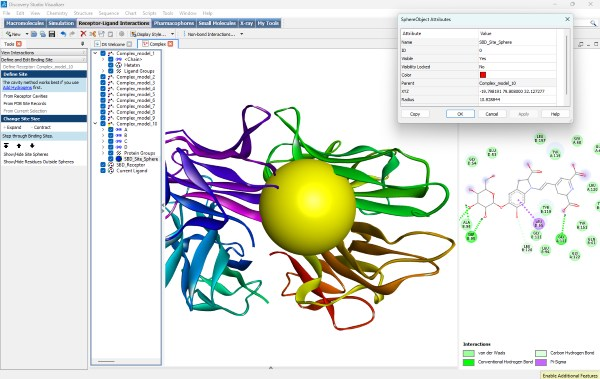
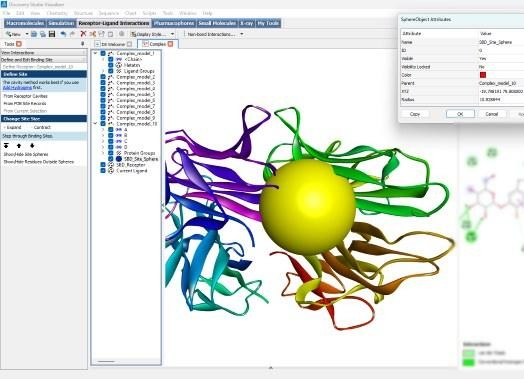
asm

diff --git a/assets/css/custom.css b/assets/css/custom.css
@@ -151,7 +151,7 @@ body.dark .download-btn-outline:hover {
 /* ===== Desktop ===== */
 @media (min-width: 1024px){
   #contact{
-    padding-top: 0.0rem !important;     /* نص فوق */
+    padding-top: 0.75rem !important;     /* نص فوق */
     padding-bottom: 0.5rem !important;  /* نص تحت */
   }
 }

diff --git a/content/gallery/mymsc/index.md b/content/gallery/mymsc/index.md
@@ -151,7 +151,7 @@ I then began the practical phase of my research, implementing the proposed study
 
 <figure style="text-align:center;">
   <img src="elisa1.jpg" width="100%">
-  <figcaption>While I Was Waiting for the Incubation Periods of ELISA! 🫠</figcaption>
+  <figcaption>While Waiting During the ELISA Incubation Periods! 🫠</figcaption>
 </figure>
 
 <figure style="text-align:center;">

diff --git a/content/_index.md b/content/_index.md
@@ -81,7 +81,6 @@ sections:
       #  text: "Browse more!"  # Customize text
        # link: "https://asm0697.github.io/gallery/"  # Custom URL
     design:
-      css_class: center-portfolio
       columns: 3
      # view: showcase
       spacing:
